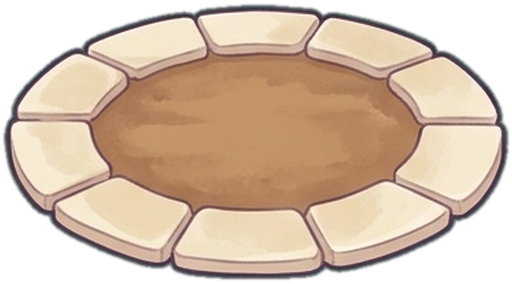
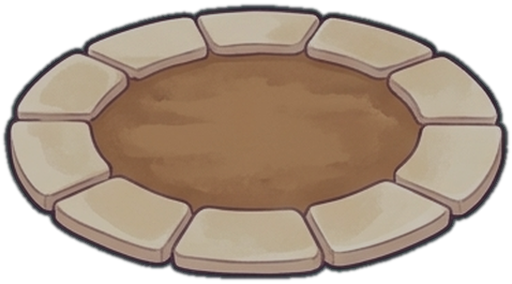
The stone-ring station pad matches the other three pads' brightness (135 against 173 before), so the early garden's stations stand on one family of bases (#169); the before and after sheet and the verdict are in docs/anh/po-169.

diff --git a/docs/anh/po-169/VERDICT.md b/docs/anh/po-169/VERDICT.md
@@ -1,0 +1,16 @@
+# #169: đế trạm cùng độ sáng (phần hình của design)
+
+Ngày 28/11. Bằng chứng: `de-tram-truoc-sau.png` (hàng trên là trước, hàng dưới là sau; bốn đế trên màu cỏ đo được của main `#3F7F64`).
+
+```
+VERDICT: APPROVED
+1. pass - không đổi hình, alpha hay khung; chỉ đổi màu `pad_vong-da.png`
+2. pass - cùng kích thước khung như trước, `FloorSize` không đổi
+3. pass - độ sáng trung bình: đất 135,3, sàn gỗ 134,5, vòng hoa 137,4, vòng đá 135,5 (trước là 172,7); bốn đế trong ±10%, chỉ khác chất liệu
+4. pass - không viền thừa, không điểm alpha rời
+5. pass - không hiệu ứng vẽ chết
+6. pass - cỡ không đổi
+7. không áp dụng
+```
+
+Còn lại của #169 là phần code của B theo bảng ở https://github.com/KaneNguyen03/moon-rabbit-tea-garden/issues/169 (khung mở đầu, cụm đèn đá, ô khoá kế tiếp ở dải dưới). Ảnh trong game trước/sau chụp khi phần đó xong và cổng Unity mở.
